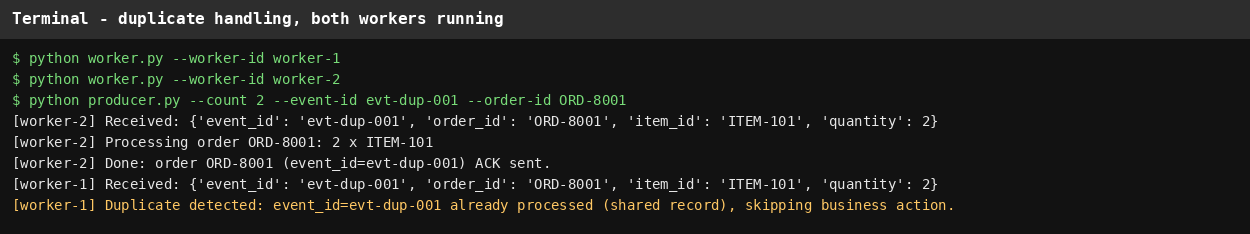
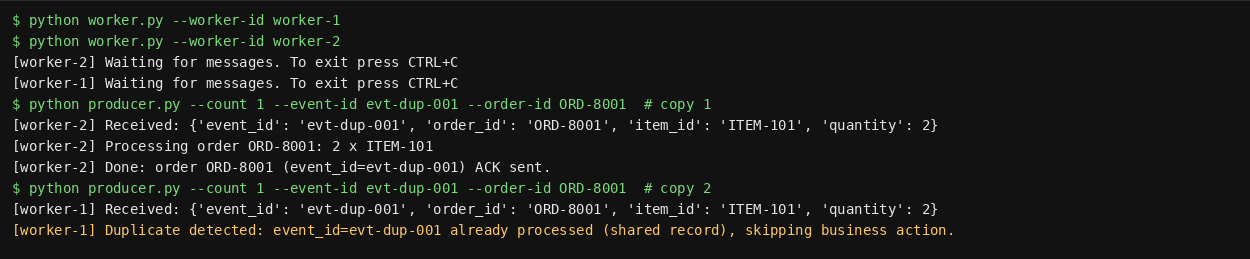
updated readme

Changed region(s): [[0.0, 0.2991, 0.78, 0.9274], [0.0, 0.0, 1.0, 0.1795], [0.0, 0.2094, 0.3744, 0.2692]]

diff --git a/README.md b/README.md
@@ -58,7 +58,26 @@ Each message contains `event_id`, `order_id`, `item_id`, `quantity`:
 
 6 orders published; worker-1 handled ORD-1002, ORD-1004, ORD-1005 and
 worker-2 handled ORD-1001, ORD-1003, ORD-1006. No order appears in both
-logs, and the queue was empty afterwards.
+logs, and the queue was empty afterwards. The screenshot below is
+plain terminal output from that run:
+
+```
+$ python worker.py --worker-id worker-1  # terminal 1
+$ python worker.py --worker-id worker-2  # terminal 2
+$ python producer.py --count 6           # terminal 3
+[worker-1] Processing order ORD-1002: 2 x ITEM-101
+[worker-1] Done: order ORD-1002 (event_id=83d1e998-7c0c-4f24-ab0d-415b38a4222d) ACK sent.
+[worker-1] Processing order ORD-1004: 2 x ITEM-101
+[worker-1] Done: order ORD-1004 (event_id=61f2823b-8aaf-4ca5-83b1-111e35d6df57) ACK sent.
+[worker-1] Processing order ORD-1005: 2 x ITEM-101
+[worker-1] Done: order ORD-1005 (event_id=43ec21e0-28be-4e9d-997f-297121506257) ACK sent.
+[worker-2] Processing order ORD-1001: 2 x ITEM-101
+[worker-2] Done: order ORD-1001 (event_id=853076ea-1e9f-4e46-8f3f-c4b5274b5b3b) ACK sent.
+[worker-2] Processing order ORD-1003: 2 x ITEM-101
+[worker-2] Done: order ORD-1003 (event_id=602c2bf2-b12a-42e3-9892-fc041cf2c212) ACK sent.
+[worker-2] Processing order ORD-1006: 2 x ITEM-101
+[worker-2] Done: order ORD-1006 (event_id=7ba7ed18-0954-4f9f-a789-0c37b51c0172) ACK sent.
+```
 
 ![Competing consumers](screenshots/competing-consumers.png)
 
@@ -68,18 +87,27 @@ Worker-1 was started with `--crash-on-event evt-crash-001`, so it
 received ORD-9001 and exited without sending an ACK. RabbitMQ
 redelivered the same message to worker-2, which processed and ACKed
 it. A later order (ORD-9002) was then processed normally, so the
-system remained running. The screenshot below is the verbatim log
-of that run, including worker-1's exit.
+system remained running. The screenshot below is plain terminal
+output from that run, in the order events happened. Worker-1's
+crash line is its last line: it exited with code 1 without
+ACKing, and worker-2 then received, processed, and ACKed the
+same message.
 
 ```
+$ python worker.py --worker-id worker-1 --crash-on-event evt-crash-001 --priority 10
+$ python worker.py --worker-id worker-2
+[worker-1] Waiting for messages. To exit press CTRL+C
+[worker-2] Waiting for messages. To exit press CTRL+C
+$ python producer.py --count 1 --event-id evt-crash-001 --order-id ORD-9001
 [worker-1] Received: {'event_id': 'evt-crash-001', 'order_id': 'ORD-9001', 'item_id': 'ITEM-101', 'quantity': 2}
 [worker-1] Simulating crash on event_id=evt-crash-001 (no ACK sent).
-[harness] worker-1 exited with code 1 (no ACK sent)
 [worker-2] Received: {'event_id': 'evt-crash-001', 'order_id': 'ORD-9001', 'item_id': 'ITEM-101', 'quantity': 2}
 [worker-2] Processing order ORD-9001: 2 x ITEM-101
 [worker-2] Done: order ORD-9001 (event_id=evt-crash-001) ACK sent.
+$ python producer.py --count 1 --order-id ORD-9002
+[worker-2] Received: {'event_id': 'a072b075-4858-46c6-9e1b-f10ae67fadf1', 'order_id': 'ORD-9002', 'item_id': 'ITEM-101', 'quantity': 2}
 [worker-2] Processing order ORD-9002: 2 x ITEM-101
-[worker-2] Done: order ORD-9002 (event_id=2199d52e-870c-4b88-9470-268e2371f9b8) ACK sent.
+[worker-2] Done: order ORD-9002 (event_id=a072b075-4858-46c6-9e1b-f10ae67fadf1) ACK sent.
 ```
 
 ![Failure and redelivery](screenshots/failure-redelivery.png)
@@ -99,15 +127,22 @@ python producer.py --count 1 --order-id ORD-9002
 
 Processed `event_id` values are kept in a shared record,
 `processed_events.txt`, which both workers read on every message
-under a file lock. Publishing the same event twice with both
-workers running processes it once; the second copy is detected
-by the other worker from the shared record and skipped. In the
-run below, worker-2 processed the first copy and worker-1 caught
-the duplicate:
+under a file lock. The screenshot below is plain terminal output
+from that run, in the order events happened: the same event is
+published twice, as two separate runs, so copy 1 and copy 2 are
+separate lines. Worker-2 processed copy 1, and worker-1 received
+copy 2 and reported the duplicate:
 
 ```
+$ python worker.py --worker-id worker-1
+$ python worker.py --worker-id worker-2
+[worker-2] Waiting for messages. To exit press CTRL+C
+[worker-1] Waiting for messages. To exit press CTRL+C
+$ python producer.py --count 1 --event-id evt-dup-001 --order-id ORD-8001  # copy 1
+[worker-2] Received: {'event_id': 'evt-dup-001', 'order_id': 'ORD-8001', 'item_id': 'ITEM-101', 'quantity': 2}
 [worker-2] Processing order ORD-8001: 2 x ITEM-101
 [worker-2] Done: order ORD-8001 (event_id=evt-dup-001) ACK sent.
+$ python producer.py --count 1 --event-id evt-dup-001 --order-id ORD-8001  # copy 2
 [worker-1] Received: {'event_id': 'evt-dup-001', 'order_id': 'ORD-8001', 'item_id': 'ITEM-101', 'quantity': 2}
 [worker-1] Duplicate detected: event_id=evt-dup-001 already processed
            (shared record), skipping business action.
@@ -118,13 +153,14 @@ without being processed again.
 
 ![Duplicate handling](screenshots/duplicate-handling.png)
 
-Reproduce it:
+Reproduce it (two separate publishes, not one `--count 2` run):
 
 ```bash
 rm -f processed_events.txt processed_events.lock
 python worker.py --worker-id worker-1
 python worker.py --worker-id worker-2
-python producer.py --count 2 --event-id evt-dup-001 --order-id ORD-8001
+python producer.py --count 1 --event-id evt-dup-001 --order-id ORD-8001
+python producer.py --count 1 --event-id evt-dup-001 --order-id ORD-8001
 ```
 
 ## Reflection
@@ -135,7 +171,7 @@ or its connection drops before the ACK, the broker must redeliver
 the message to keep it from being lost. That at-least-once delivery
 means the same order can legitimately arrive twice, even though
 nothing went wrong with the queue itself. Idempotent handling
-solves this by keying the business action on `event_id`: the first
+solves this by keying the business action on event_id. The first
 delivery is processed and recorded in a record shared by all
 workers, and any repeat is recognised and skipped. The result is that redelivery keeps the system
 reliable without causing the order to be processed twice.
